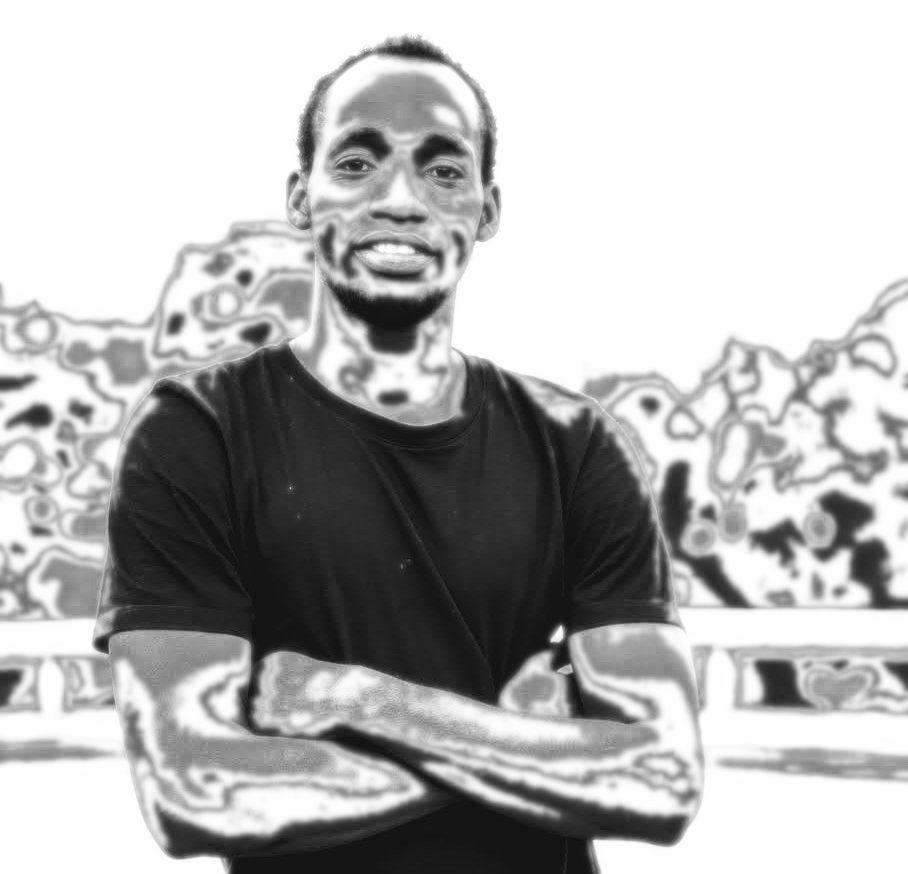
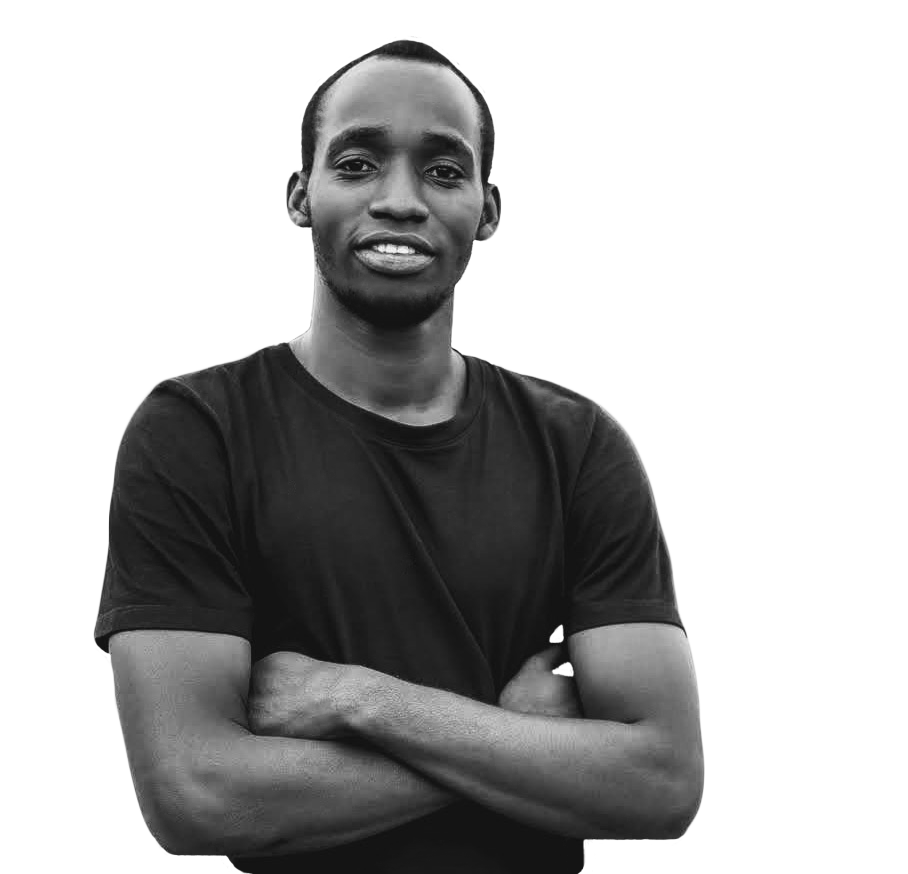
file-css: styled image and mobile responsiveness

diff --git a/css/styles.css b/css/styles.css
@@ -102,11 +102,19 @@ body{
     margin: 0 auto;
 }
 
+#image {
+    display: flex;
+    flex-direction: column;
+    justify-content: center;
+    align-items: center;
+    border: 1px red solid;
+}
 #image img{
 
-    width: 80%;
-    border-radius: 50%;
-    padding-left: 60px;
+    margin-top: -40px;
+    width: 85%;
+    border-radius: 50%; 
+     
 }
 
 
@@ -165,7 +173,7 @@ h1{
 .project-row{
     display: flex;
     flex-direction: row;
-    justify-content: space-between;
+    justify-content: center;
     flex-wrap: wrap;
     width: 90%;
     margin: 0 auto;
@@ -175,7 +183,7 @@ h1{
 
 .project-tile{
     width: 350px;
-    margin: 10px 0px;
+    margin: 20px;
     background-color:#202a3c;
     border-radius: 10px;
     text-align: center;
@@ -250,10 +258,7 @@ h1{
     flex-direction: row;
     justify-content: space-around;
     align-items: center;
-    height: 200px;
-
-    
-   
+    height: 200px;   
 }
 
 #footer-logo{
@@ -273,3 +278,139 @@ h1{
 
 
 /* mobile views */
+@media (min-width: 320px) and (max-width:425px){
+
+    #nav-links{
+        display: none;
+    }
+    
+    #welcome-section{
+        height: auto;
+    }
+    .welcome-row{
+        display: flex;
+        flex-direction: column;
+        align-content: center;
+        width: 100%;
+        padding: 20px 0px;
+    }
+
+    .introduction, #image{
+        width: 100%;
+    }
+
+    #name{
+        font-size: 18px;
+        margin: 0;
+    }
+
+    h1{
+        font-size: 50px;
+        font-weight: 600;
+        line-height: 60px;
+    }
+
+    .introduction p{
+        font-size: 18px;
+        padding-top: 15px;
+    }
+
+    .project-heading h2{
+        font-size: 30px;
+    }
+
+    .project-row{
+        display: flex;
+        flex-direction: column;
+        justify-content: center;
+        align-content: center;
+        width: 100%;
+    
+    }
+
+
+
+
+.content h2{
+    font-size: 40px;
+    font-weight: 600;
+    line-height: 44px;
+    margin-bottom: 15px;
+    
+    
+
+}
+
+.content p{
+    font-size: 18px;
+    line-height: 30px;
+    font-weight: 200;
+    margin-bottom: 20px;
+    
+}
+
+.contact-row{
+    display: flex;
+    flex-direction: column;
+    justify-content: center;
+    align-content: center;
+    padding: 10px;
+    
+    
+
+}
+.contact-btn{
+    font-size: 16px;
+    margin-top: 10px;
+    padding: 15px 30px;
+    border-radius: 15px;
+    border: none;
+    background-color: #45958b;
+    color: #fefefe;
+    width: 80%;
+    
+}
+
+
+
+    .footer-row{
+        display: flex;
+        flex-direction: column;
+        justify-content: center;
+        align-content: center;   
+    }
+
+    
+}
+
+
+@media (min-width: 768px) and (max-width: 1440px){
+    .project-row{
+        display: flex;
+        flex-direction: row;
+        justify-content: center;
+        align-content: center;
+        width: 100%;
+    
+    }
+
+    .project-tile{
+        width: 300px;
+        margin: 10px;
+    }
+    
+}
+
+@media(width: 1440px){
+    .project-tile{
+        width: 300px;
+        margin: 10px;
+    }
+}
+
+ @media (min-width: 1441px) and (max-width: 2560px){
+    .project-tile{
+        width: 600px;
+        margin: 20px;
+    }
+} 

diff --git a/dist/index.html b/dist/index.html
@@ -42,12 +42,12 @@
     <div class="welcome-row">
       <div class="introduction">
         <h2 id="name">----Allan Nandala</h2>
-        <H1>Website Developer</H1>
+        <h1>Website Developer</h1>
         <p>I transform your ideas into digital Compelling products.</p>
       </div>
 
       <div id="image">
-         <img id="allan" src="images/allan.jpg" alt="allan nandala's picture">
+         <img id="allan" src="images/allan.png" alt="allan nandala's picture">
       </div>
     </div>
 
@@ -73,11 +73,21 @@
         <img src="images/allan.jpg" alt="">
       <h3>Project Name</h3>
     </div>
+
+    <div class="project-tile">
+      <img src="images/allan.jpg" alt="">
+    <h3>Project Name</h3>
+  </div>
+
+  <div class="project-tile">
+    <img src="images/allan.jpg" alt="">
+  <h3>Project Name</h3>
+</div>
      
-    </div>
+    <!-- </div> -->
 
 
-    <div class="project-row">
+    <!-- <div class="project-row"> -->
       <div class="project-tile">
         <img src="images/allan.jpg" alt="">
       <h3>Project Name</h3>

diff --git a/index.html b/index.html
@@ -42,12 +42,12 @@
     <div class="welcome-row">
       <div class="introduction">
         <h2 id="name">----Allan Nandala</h2>
-        <H1>Website Developer</H1>
+        <h1>Website Developer</h1>
         <p>I transform your ideas into digital Compelling products.</p>
       </div>
 
       <div id="image">
-         <img id="allan" src="images/allan.jpg" alt="allan nandala's picture">
+         <img id="allan" src="images/allan.png" alt="allan nandala's picture">
       </div>
     </div>
 
@@ -73,11 +73,21 @@
         <img src="images/allan.jpg" alt="">
       <h3>Project Name</h3>
     </div>
+
+    <div class="project-tile">
+      <img src="images/allan.jpg" alt="">
+    <h3>Project Name</h3>
+  </div>
+
+  <div class="project-tile">
+    <img src="images/allan.jpg" alt="">
+  <h3>Project Name</h3>
+</div>
      
-    </div>
+    <!-- </div> -->
 
 
-    <div class="project-row">
+    <!-- <div class="project-row"> -->
       <div class="project-tile">
         <img src="images/allan.jpg" alt="">
       <h3>Project Name</h3>
